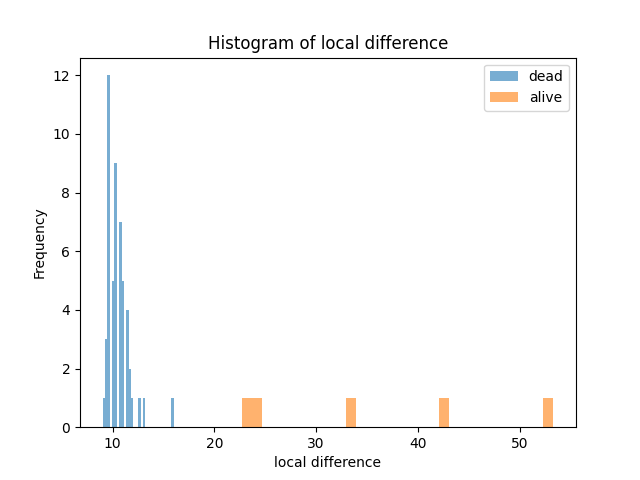
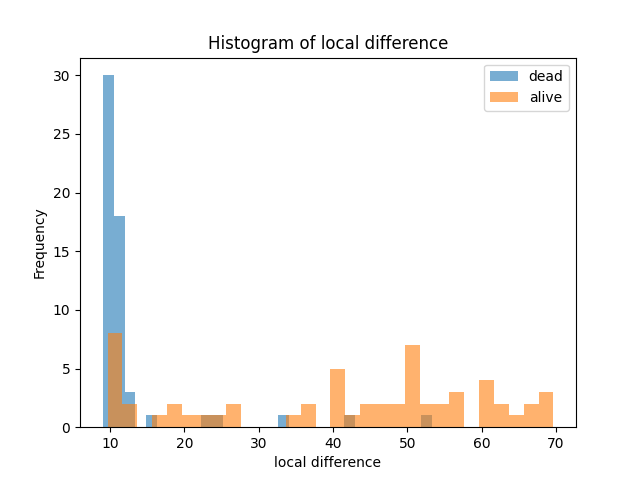
ground truth labeling

diff --git a/main.py b/main.py
@@ -12,7 +12,7 @@ from classes.MiteManager import MiteManager
 from utils.tools import read_counter, reset_counter, write_counter
 
 
-def reanalyze_recording(results_base, num_per_plate, detector, frames_by_recording, discobox_run, name):
+def reanalyze_recording(results_base, num_per_plate, detector, frames_by_recording, discobox_run, name, Ground_truth):
     i = 1
     while True:
         reanalyze_path = os.path.join(results_base, f"reanalysis{i}")
@@ -43,7 +43,7 @@ def reanalyze_recording(results_base, num_per_plate, detector, frames_by_recordi
         discobox_run=discobox_run,
         recording_count= i + 1)
 
-        stage.mite_variability()
+        stage.mite_variability(Ground_truth)
         stage.draw(frames[0], thickness=2)
         stage.Excelsummary()
 
@@ -55,7 +55,7 @@ def reanalyze_recording(results_base, num_per_plate, detector, frames_by_recordi
     stage.variability_distribution_graph()
    
 
-def analyze_recording(results_base, num_per_plate, detector, frames, discobox_run, name, recording_count):
+def analyze_recording(results_base, num_per_plate, detector, frames, discobox_run, name, recording_count, Ground_truth):
 
     # count how many recordings have been made
     count = read_counter()
@@ -82,7 +82,7 @@ def analyze_recording(results_base, num_per_plate, detector, frames, discobox_ru
         recording_count = recording_count
     )
 
-    stage.mite_variability()
+    stage.mite_variability(Ground_truth)
     stage.draw(frames[0], thickness=2)
     stage.Excelsummary()
 
@@ -94,9 +94,11 @@ def analyze_recording(results_base, num_per_plate, detector, frames, discobox_ru
         stage.distribution_graph()
         
 
-def predict(folder_path, name, num_per_plate, reanalyze=False, discobox_run=False, num_recordings=3):
+def predict(folder_path, name, num_per_plate, reanalyze=False, discobox_run=False, num_recordings=1):
     detector = Detector()
     frames = get_frames(folder_path, discobox_run, reanalyze)
+
+    Ground_truth = False #alive or dead
    
 
      # Run detection on first frame
@@ -108,13 +110,13 @@ def predict(folder_path, name, num_per_plate, reanalyze=False, discobox_run=Fals
 
  
     if reanalyze:
-        reanalyze_recording(results_base, num_per_plate, detector, frames, discobox_run, name)
+        reanalyze_recording(results_base, num_per_plate, detector, frames, discobox_run, name, Ground_truth)
 
     else:
-        analyze_recording(results_base, num_per_plate, detector, frames, discobox_run, name, num_recordings)
+        analyze_recording(results_base, num_per_plate, detector, frames, discobox_run, name, num_recordings, Ground_truth)
 
     
     # plot variablitiy distribution collected so far
     # Load the CSV file
 
-#predict("Datasets/alive", "test", 1, reanalyze=False)
+#predict("Datasets/dead3", "test", 1, reanalyze=False)

diff --git a/classes/mite.py b/classes/mite.py
@@ -28,43 +28,38 @@ class Mite:
 
        
 
-    def checkAlive(self):
+    def checkAlive(self, Ground_Truth):
         
         if self.roi_series is None:
             raise ValueError("ROI series is not set. Call add_ROI() first.")
 
-                # Step 1: Convert to grayscale if needed
-        roi_gray = np.mean(self.roi_series, axis=-1)  # shape: (T, H, W)
 
-        # Step 2: Compute absolute frame-to-frame differences
-        frame_diffs = np.abs(np.diff(roi_gray, axis=0))  # shape: (T-1, H, W)
 
-    
+  
         # Get pixel-wise range across the stack
-        pixel_diff = np.mean(self.roi_series.max(axis=0) - self.roi_series.min(axis=0), axis = -1)
+        pixel_diff_grey = np.mean(self.roi_series.max(axis=0) - self.roi_series.min(axis=0), axis = -1)
 
 
        
 
 
-        # Step 2: Find pixel with maximum range
-        max_coord = np.unravel_index(np.argmax(pixel_diff), pixel_diff.shape)
+        max_coord = np.unravel_index(np.argmax(pixel_diff_grey), pixel_diff_grey.shape)
         x, y = max_coord
 
 
         x_min = max(x - self.local_radius, 0)
-        x_max = min(x + self.local_radius + 1, pixel_diff.shape[0])
+        x_max = min(x + self.local_radius + 1, pixel_diff_grey.shape[0])
         y_min = max(y - self.local_radius, 0)
-        y_max = min(y + self.local_radius + 1, pixel_diff.shape[1])
+        y_max = min(y + self.local_radius + 1, pixel_diff_grey.shape[1])
 
-        local_patch = pixel_diff[x_min:x_max, y_min:y_max]
+        local_patch = pixel_diff_grey[x_min:x_max, y_min:y_max]
 
-        # Step 4: Get top 3 pixel values in the patch
+        # Get top 3 pixel values in the patch
         top_3_vals = np.sort(local_patch.flatten())[-3:]
         self.local_avg_diff = np.mean(top_3_vals)
 
 
-        self.max_diff = np.max(pixel_diff)
+        self.max_diff = np.max(pixel_diff_grey)
 
 
 
@@ -77,13 +72,14 @@ class Mite:
         script_dir = os.path.dirname(os.path.abspath(__file__))
 
         filename = os.path.join(script_dir, "variabilites.csv")
+
         with open(filename, mode='a', newline='') as file:
             writer = csv.writer(file)
 
          
 
             # Write the new row
-            writer.writerow([self.alive, self.max_diff, self.local_avg_diff])
+            writer.writerow([Ground_Truth, self.alive, self.max_diff, self.local_avg_diff])
                         
          
 

diff --git a/classes/MiteManager.py b/classes/MiteManager.py
@@ -161,12 +161,12 @@ class MiteManager:
         print("got mites:", len(boxes))
         print("assigned mites:", assigned)
 
-    def mite_variability(self):
+    def mite_variability(self, Ground_truth):
         for zone in self.zones:
             print(f"Zone {zone.zone_id} has {len(zone.mites)} mites.")
             
             for mite in zone.mites:
-                mite.checkAlive()
+                mite.checkAlive(Ground_truth)
 
     
 
@@ -353,7 +353,7 @@ class MiteManager:
         # Plot histogram for each group (Alive True/False)
         plt.figure(figsize=self.img_size)
 
-        for alive_status, group in df.groupby('Alive'):
+        for alive_status, group in df.groupby('Ground_truth'):
             plt.hist(group['max_diff'], bins=30, alpha=0.6, label=f"{'alive' if alive_status else 'dead'}")
 
         
@@ -366,7 +366,7 @@ class MiteManager:
         plt.close()
 
 
-        for alive_status, group in df.groupby('Alive'):
+        for alive_status, group in df.groupby('Ground_truth'):
             plt.hist(group['local_diff'], bins=30, alpha=0.6, label=f"{'alive' if alive_status else 'dead'}")
 
         
